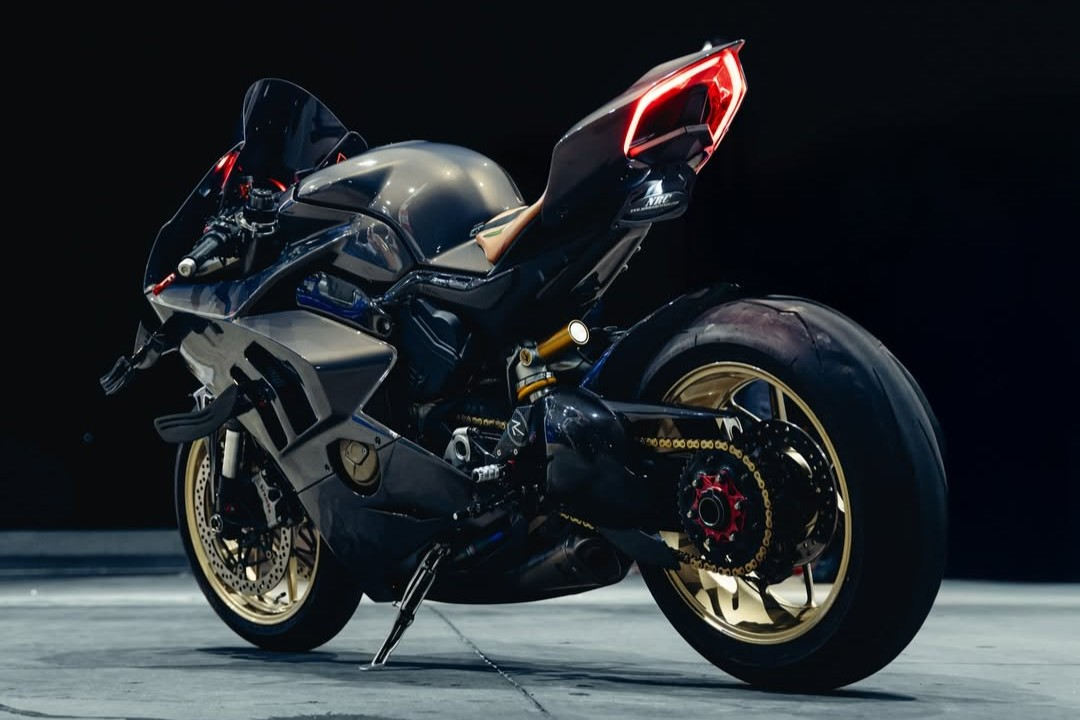
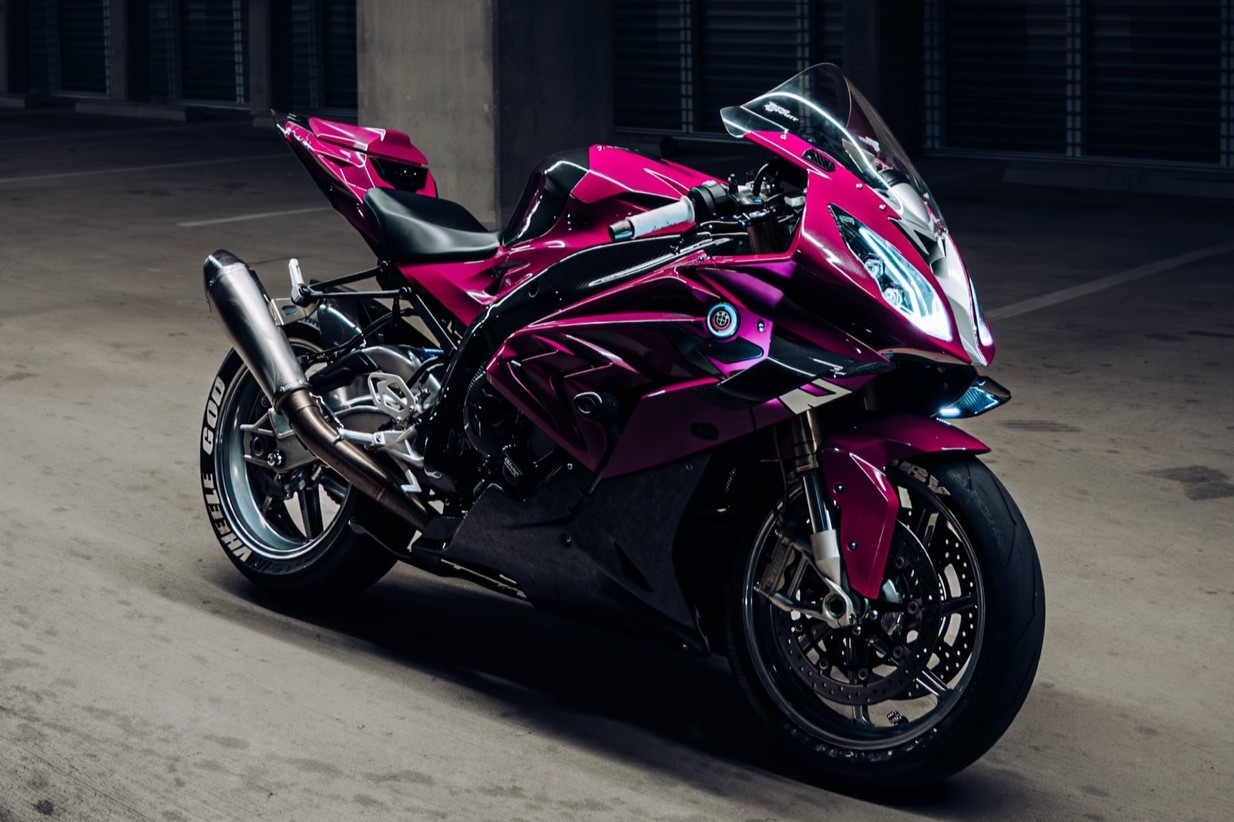
added data in db.json + imported BrowserRouter in app.js + media adjustments

diff --git a/src/App.js b/src/App.js
@@ -1,12 +1,16 @@
-// import logo from './logo.svg';
-import './style.css';
+import { BrowserRouter as Router, Routes, Route, Link } from "react-router-dom";
+import "./style.css";
 
 function App() {
-  return (
-    <div>
-      
-    </div>
-  );
+  return <div>
+    <Router>
+      <Routes>
+        <Route>
+          
+        </Route>
+      </Routes>
+    </Router>
+  </div>;
 }
 
 export default App;